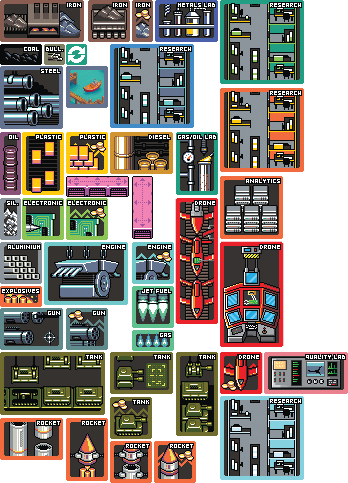
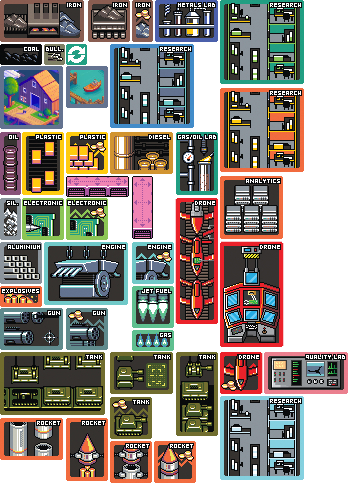
add barn and grass pattern

Changed region(s): [[0.0, 0.1242, 0.1724, 0.2795]]

diff --git a/src/components/ExampleComponent.vue b/src/components/ExampleComponent.vue
@@ -1,7 +1,7 @@
 <template>
   <div>
     <!-- <p>{{ title }}</p> -->
-    <canvas ref="myCanvas" width="600" height="400"></canvas>
+    <canvas ref="myCanvas" :width="mapWidth" :height="mapHeight"></canvas>
     <br />
     <q-btn label="Save" @click="save()"></q-btn>
     <q-btn label="Load" @click="load()"></q-btn>
@@ -106,7 +106,17 @@ const buttons: Ref<
     height: baseSize * 2,
     xOffset: (baseSize + 1) * 3,
     yOffset: (baseSize + 1) * 3,
-    name: 'iron-seller',
+    name: 'seaport',
+  },
+  {
+    image: TilesImage,
+    tileWidth: 3,
+    tileHeight: 3,
+    width: baseSize * 3,
+    height: baseSize * 3,
+    xOffset: (baseSize + 1) * 0,
+    yOffset: (baseSize + 1) * 3,
+    name: 'barn',
   },
 ]);
 
@@ -195,6 +205,8 @@ const roadImageRaw: [string, number, number][] = [
   ['horizontal', 1, 3],
   ['vertical', 0, 3],
   ['grass', 0, 0],
+  ['leaf1', 2, 0],
+  ['leaf2', 4, 0],
   ['eastnorth', 0, 5],
   ['eastsouth', 1, 5],
   ['westsouth', 2, 5],
@@ -253,6 +265,14 @@ for (let i = 0; i < roadImageRaw.length; i++) {
     xOffset: xOffset * (baseSize + 1),
     yOffset: yOffset * (baseSize + 1),
   };
+}
+
+let mapPattern: Record<number, string> = {};
+const grassTypes = ['grass', 'leaf1', 'leaf2'];
+for (let i = 0; i < mapColumns * mapRows; i++) {
+  const randomGrassType =
+    grassTypes[Math.floor(Math.random() * grassTypes.length)];
+  mapPattern[i] = randomGrassType;
 }
 
 // Function to redraw the map
@@ -317,7 +337,7 @@ function redrawMap(): void {
         if (tile === 0 && !!buttons.value[tile]) {
           roadImage = roadImages[roadMapping[`${north}${east}${south}${west}`]];
         } else {
-          roadImage = roadImages['grass'];
+          roadImage = roadImages[mapPattern[tileIndex]];
         }
 
         context.drawImage(
